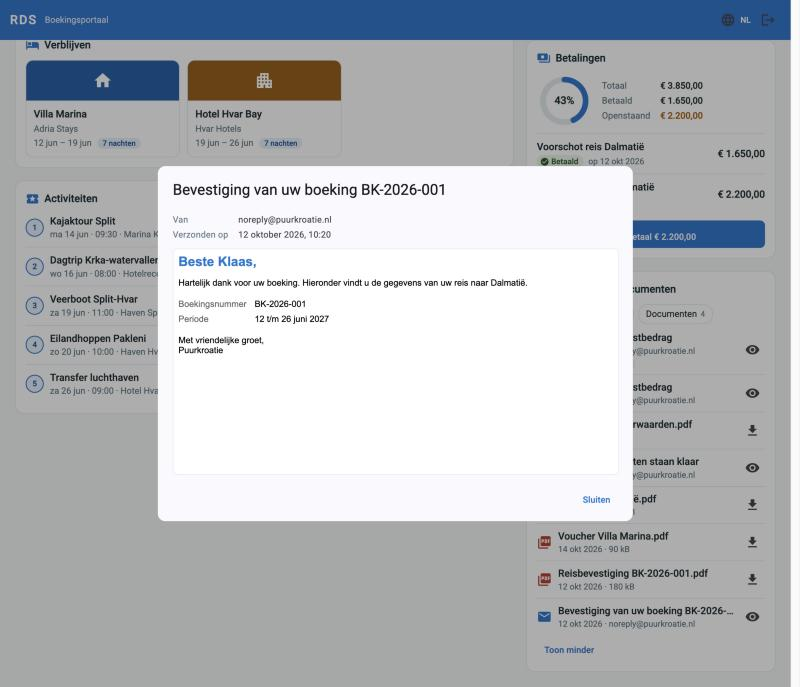
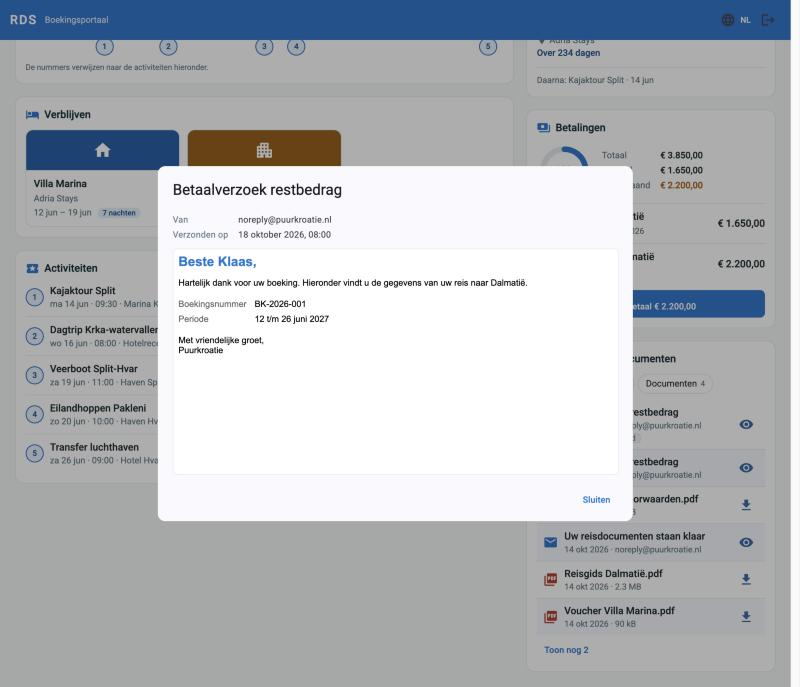
docs: screenshots van het boekerdashboard opnieuw gemaakt met risicokleuren en zachte rijtint

diff --git a/docs/voorstel-booker-dashboard.md b/docs/voorstel-booker-dashboard.md
@@ -8,7 +8,7 @@
 | Raakt | `frontend-booker`, en in de backend het pakket `bookerportal` (nieuw overview-endpoint, slankere DTO's, document-download) |
 | Zie ook | [bookerportal.md](bookerportal.md), [frontend.md](frontend.md), [security.md](security.md), [open-items.md](open-items.md) |
 
-> De afbeeldingen in §3 zijn **echte schermen** uit de gebouwde app (`ng serve`, 21-10-2026), op 1280, 768 en 375 px, voor, tijdens en na de reis en met een geopende e-mail. De gegevens zijn **fictief**: ze komen van een stub van `/api/booker-portal/**`, omdat de lokale database niet voor de tooling bereikbaar was. De huisstijl is die van de organisatie *Puurkroatie* uit de seeddata. De oorspronkelijke schema's staan nog per breedte onder *Schema van het ontwerp*.
+> De afbeeldingen in §3 zijn **echte schermen** uit de gebouwde app (`ng serve`, 21-10-2026), op 1280, 768 en 375 px, voor, tijdens en na de reis en met een geopende e-mail. Ze zijn opnieuw gemaakt na de invoering van de risicokleuren en de om-en-om tint in *Berichten en documenten*. De gegevens zijn **fictief**: ze komen van een stub van `/api/booker-portal/**`, omdat de lokale database niet voor de tooling bereikbaar was. De huisstijl is die van de organisatie *Puurkroatie* uit de seeddata. De oorspronkelijke schema's staan nog per breedte onder *Schema van het ontwerp*.
 
 ## 1. Waar we nu staan
 
@@ -305,6 +305,7 @@ Alle vijf stappen uit §7 zijn in één keer opgeleverd. Verschillen met het voo
 | Overview | boeking, boeker, reizigers, organisatie | zo gebouwd; de totale som komt uit de boekingsregels en activiteiten |
 | Documenten | slanke lijst en download | zo gebouwd (`size` met `octet_length` in de query, het bestand via `…/content`); daarna uitgebreid met de verzonden e-mails: de kaart heet nu *Berichten en documenten* (`/messages`, alle mails aan de hoofdboeker, betalingen niet) |
 | Betaalbalk | knop start de betaling of brengt je naar de kaart | zo gebouwd |
+| Kleur en rijtint | niet uitgewerkt | bekijken en downloaden hebben de risicokleur *info* (gedempt blauw, `act-info`); de regels in *Berichten en documenten* hebben een zachte om-en-om tint (`zebra-rows`) en de pictogrammen links geen eigen achtergrond. De afbeeldingen in §3 zijn hiermee opnieuw gemaakt. Zie [frontend.md](frontend.md#actie-iconen-en-hun-risicokleur) |
 | Donkere modus, ankerrij op de telefoon | optioneel | niet gebouwd |
 | Mobiele test | Lighthouse-score | niet gemeten; wel visueel gecontroleerd op 375, 768 en 1280 px met echte schermen uit de draaiende app (tegen een stub van de API) |
 
